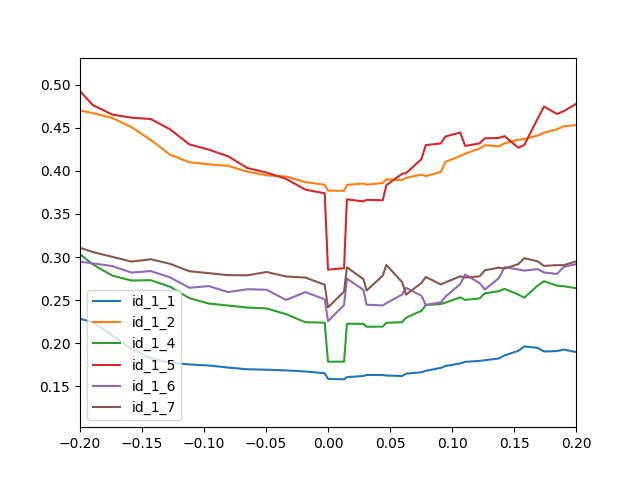
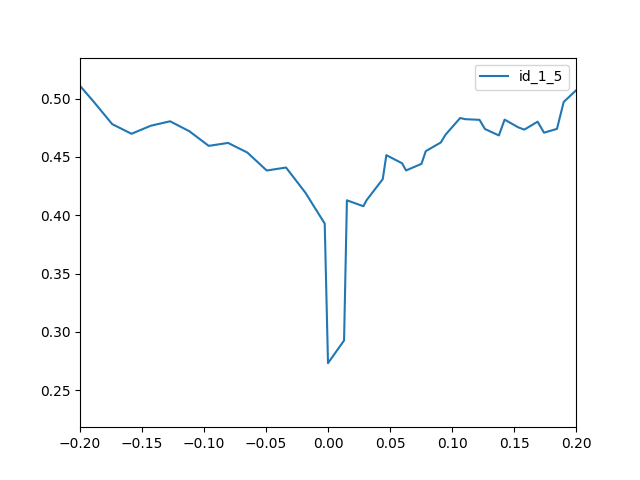
added results for id_1_5 with concat

diff --git a/src/gui/get_performance.py b/src/gui/get_performance.py
@@ -64,7 +64,7 @@ def get_performance(
     }
     model_manager.build_super_cache(pkl_paths=descriptor_paths)
     # correspondance name for storing image
-    correspondance_name = descriptor_filenames[0].replace(".pkl.gzip", "")
+    correspondance_name = output_filename.replace(".pkl.gzip", "")
     corr_dir = os.path.join(result_path, correspondance_name)
     if not os.path.exists(corr_dir):
         os.makedirs(corr_dir)
@@ -94,7 +94,7 @@ def get_performance(
             plt.title(f"Image Correspondence")
             plt.scatter(ground_truth_point[0], ground_truth_point[1], c='r', marker='x', label="ground truth")
             plt.legend()
-
+            print("image saved in" , corr_dir)
             plt.savefig(os.path.join(corr_dir, f"correspondence_{i}_{correspondance_name}.png"))
             plt.close()
 
@@ -192,13 +192,21 @@ if __name__ == '__main__':
         image_points = np.full((2, 10), None)
 
     # Define the transformations
-    transformations = ["rotation_X", "rotation_Y", "rotation_Z", "translation_X", "translation_Y", "translation_Z"]
+    transformations = [
+        #"rotation_X",
+        "rotation_Y",
+        #"rotation_Z",
+        #"translation_X",
+        #"translation_Y",
+        #"translation_Z"
+    ]
     # For each transformation
     for transformation in transformations:
         # For each configuration i.e. specific model and settings
         for config_id, config in configs.items():
             print("Generating for config ", config_id, " ", config, " ", transformation)
             for episode_id in range(1, 11):
+                print("Episode:", episode_id)
                 # Get the dataset file name
                 dataset_file = f"data_{transformation}_episode_{episode_id}.pkl.gzip"
                 # Get the descriptor file name(s)

diff --git a/src/gui/get_mean_plot.py b/src/gui/get_mean_plot.py
@@ -51,7 +51,14 @@ if __name__ == "__main__":
     parser.add_argument("--id", type=str, default="id_1_1")
     parser.add_argument("--movement", type=str, default="translation_X")
     args = parser.parse_args()
-    config_ids = ["id_1_1","id_1_2","id_1_4","id_1_5","id_1_6","id_1_7"]
+    config_ids = [
+                  "id_1_1",
+                  "id_1_2",
+                  "id_1_4",
+                  "id_1_5",
+                  "id_1_6",
+                  "id_1_7"
+    ]
     plt.figure()
     for id in config_ids:
 
